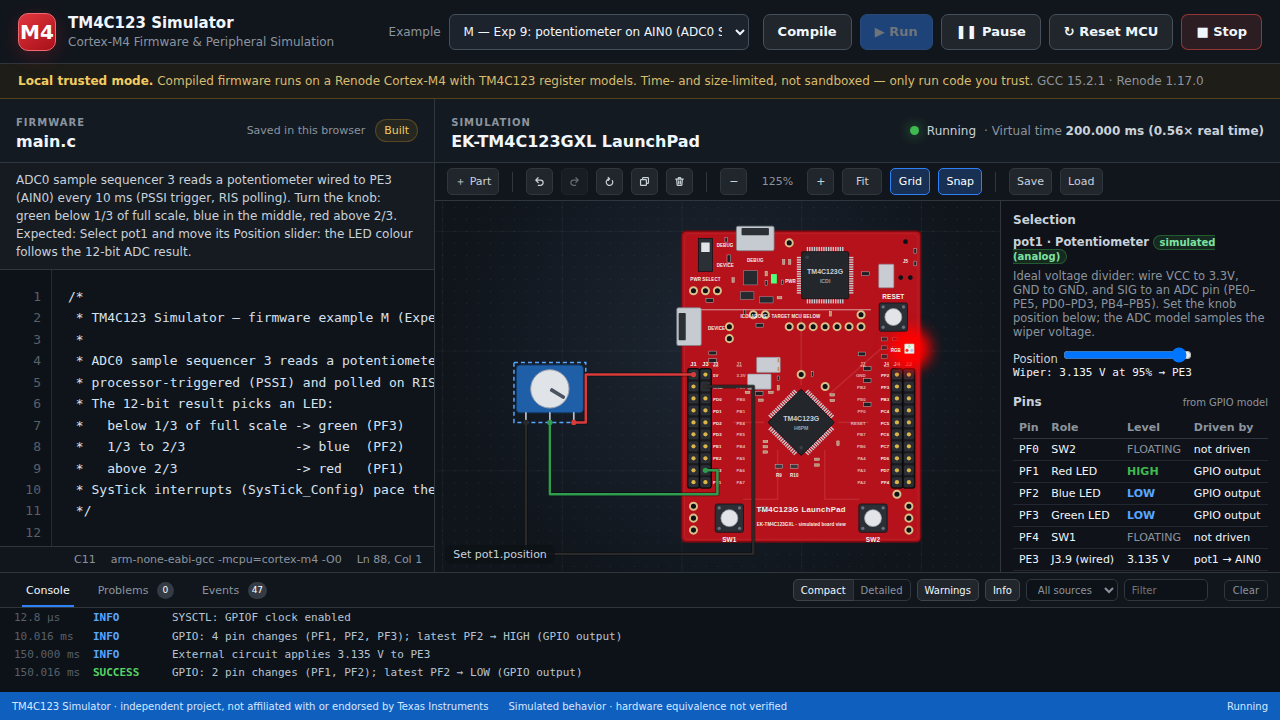
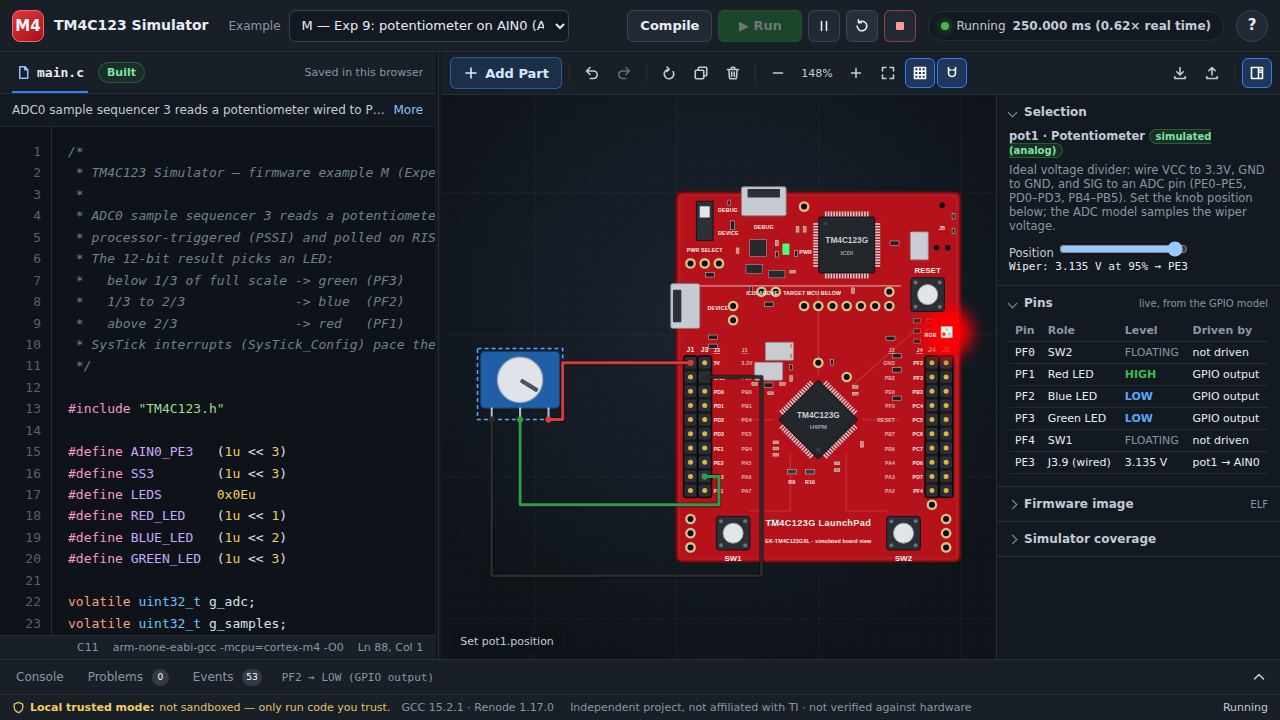
Docs: gallery from the redesigned interface; 174 Node tests
The README hero and gallery images are re-captured by this branch's CI
showcase test (same steps and sizes as before), so they show the new
layout: firmware running (1920x1080), LCD1602, ADC potentiometer, external
button, drag-to-connect (1280x720). Test counts: 174 Node (the colouring
performance bound) and 140 browser tests.

Changed region(s): [[0.0, 0.0, 1.0, 1.0], [0.3438, 0.2444, 0.4375, 0.275], [0.0, 0.4583, 0.0312, 0.55]]

diff --git a/docs/TECHNICAL_OVERVIEW.md b/docs/TECHNICAL_OVERVIEW.md
@@ -35,7 +35,7 @@ anything other than executed code teach the wrong lessons.
 - **Fourteen firmware examples** (A–N): GPIO output and input, interrupts
   with PF0 unlock, clock tree, SysTick, GPTM timers, LCD1602, ADC with a
   potentiometer and the temperature sensor; see the README.
-- **Automated tests:** 173 Node tests and 140 browser tests in CI,
+- **Automated tests:** 174 Node tests and 140 browser tests in CI,
   including all RISK-001 negative cases
   ([`RISK-001_Acceptance_Report.md`](RISK-001_Acceptance_Report.md)) and a
   showcase walkthrough ([`SHOWCASE_DEMO.md`](SHOWCASE_DEMO.md)).

diff --git a/README.md b/README.md
@@ -171,7 +171,7 @@ npm test           # Node: compiler, Renode integration, API, peripherals, works
 npm run test:e2e   # Playwright: real UI against the real toolchain and Renode
 ```
 
-CI ([`ci.yml`](.github/workflows/ci.yml)) runs **173 Node tests and 140
+CI ([`ci.yml`](.github/workflows/ci.yml)) runs **174 Node tests and 140
 browser tests** with the pinned toolchains; every browser test compiles and
 executes real firmware where it needs to. Browser
 screenshots from each run are published to the

diff --git a/PROJECT_STATUS.md b/PROJECT_STATUS.md
@@ -3,7 +3,7 @@
 **Last updated:** 2026-10-24 (`main`, showcase demo build)
 **Stage:** Technical preview. Real firmware execution, the interactive
 LaunchPad and the circuit workspace are implemented and covered by
-automated tests (173 Node + 140 browser tests in CI).
+automated tests (174 Node + 140 browser tests in CI).
 **Public hosted simulator:** No. Local, trusted, single-user mode only.
 **Hardware equivalence:** Not verified (no physical LaunchPad comparison yet).
 
